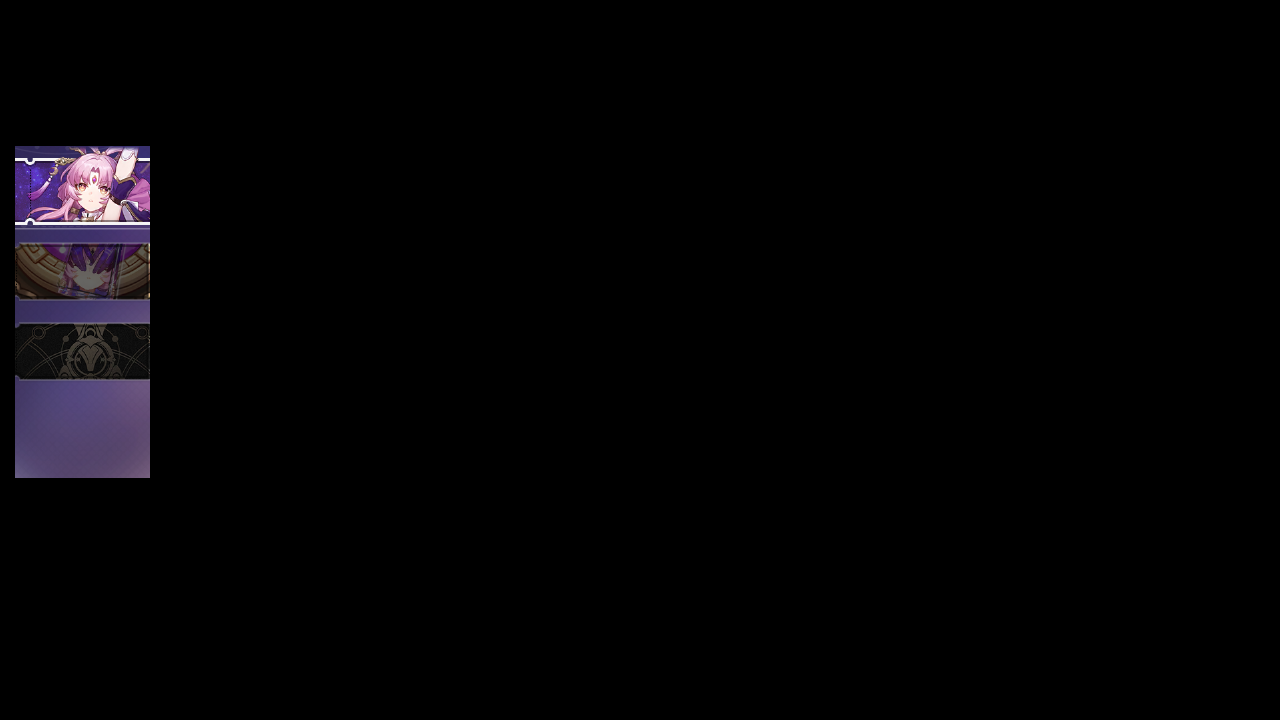
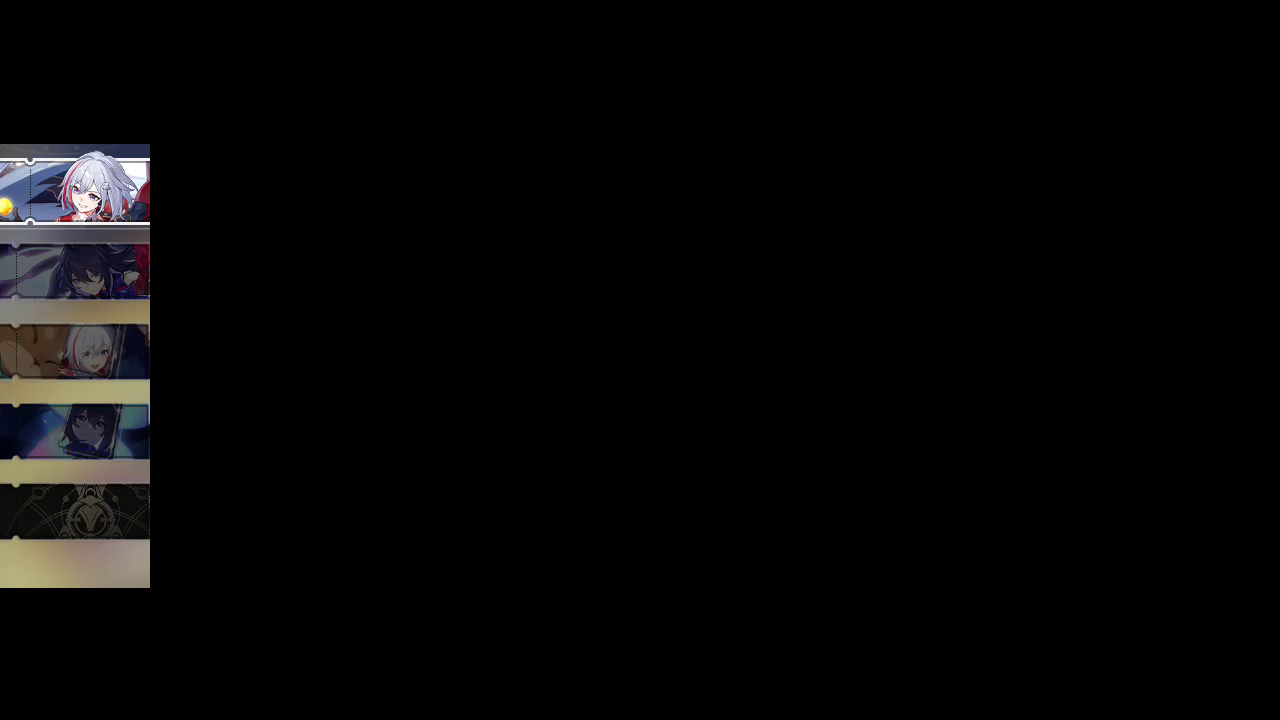
Fix: larger REGULAR_GACHA_CHECK.SEARCH & REGULAR_GACHA_CLICK.SEARCH

Changed region(s): [[0.0, 0.1833, 0.125, 0.825]]

diff --git a/tasks/daily/assets/assets_daily_trial.py b/tasks/daily/assets/assets_daily_trial.py
@@ -48,7 +48,7 @@ REGULAR_GACHA_CHECK = ButtonWrapper(
     share=Button(
         file='./assets/share/daily/trial/REGULAR_GACHA_CHECK.png',
         area=(69, 332, 124, 367),
-        search=(15, 146, 150, 478),
+        search=(0, 144, 150, 588),
         color=(100, 92, 82),
         button=(69, 332, 124, 367),
     ),
@@ -58,7 +58,7 @@ REGULAR_GACHA_CLICK = ButtonWrapper(
     share=Button(
         file='./assets/share/daily/trial/REGULAR_GACHA_CLICK.png',
         area=(63, 324, 118, 349),
-        search=(15, 146, 150, 478),
+        search=(0, 144, 150, 588),
         color=(36, 34, 30),
         button=(63, 324, 118, 349),
     ),
